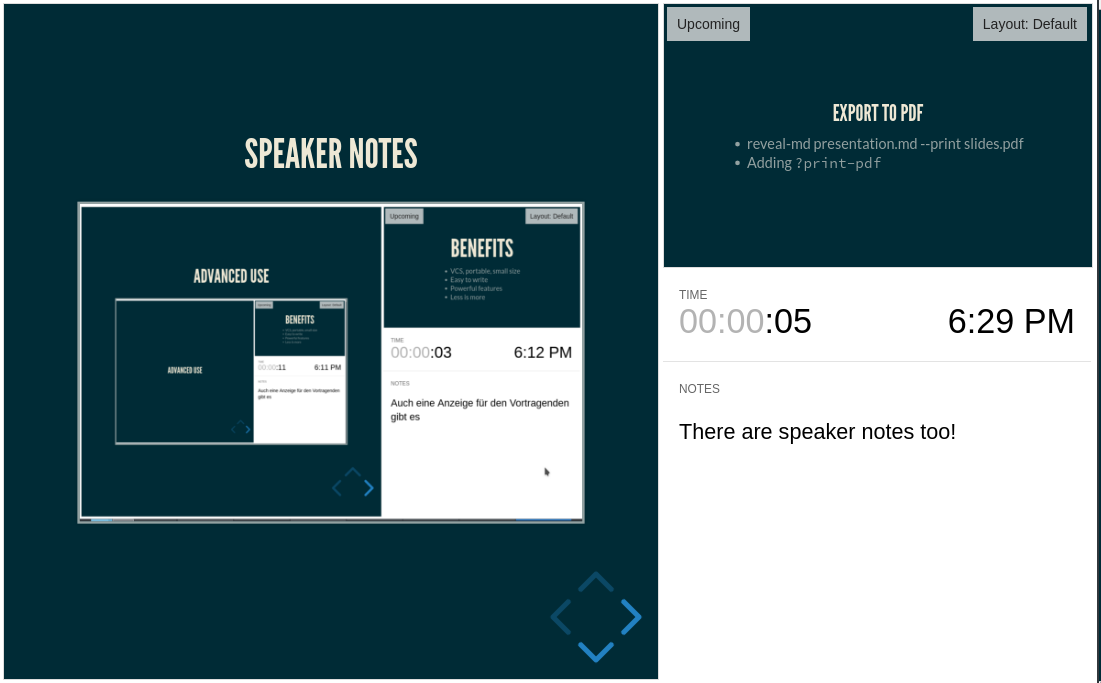
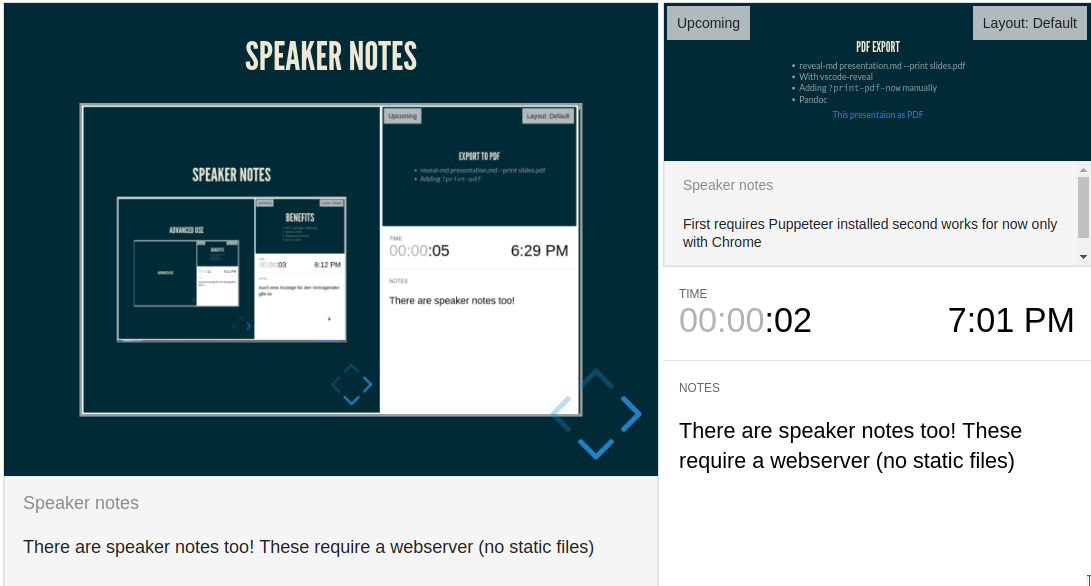
added speaker webserver note

Changed region(s): [[0.0, 0.0, 1.0, 1.0], [0.6544, 0.0614, 0.9349, 0.2457], [0.2181, 0.0614, 0.4051, 0.1229]]

diff --git a/presentation.md b/presentation.md
@@ -116,7 +116,7 @@ reveal-md presentation.md --static public
 
 ![](speaker.png) <!-- .element height="80%" width="80%" -->
 
-Note: There are speaker notes too!
+Note: There are speaker notes too! These require a webserver (no static files)
 
 --
 
